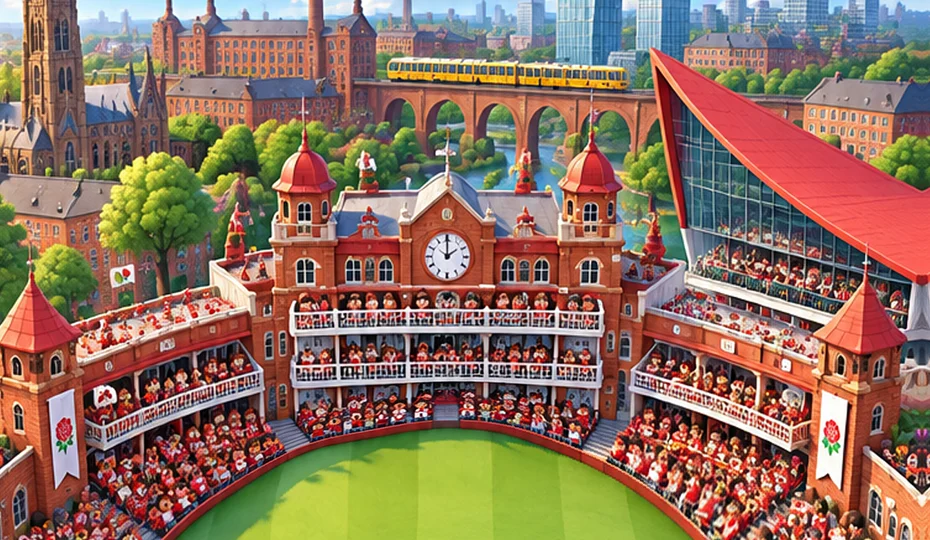
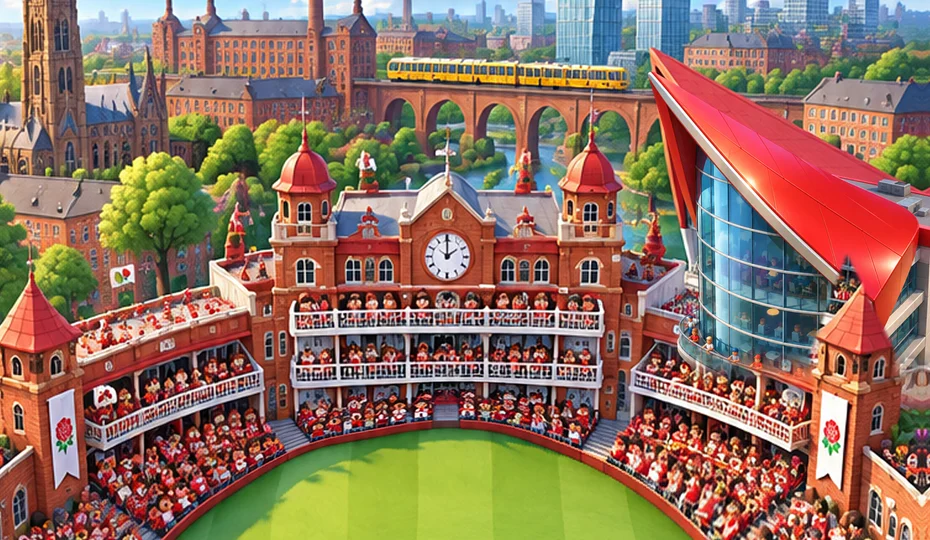
Old Trafford: clean cartoon Point on the wizard-style plate
Claude-Session: https://claude.ai/code/session_01EnXvJ6P6HcGRxjBSnYPdAU

Changed region(s): [[0.686, 0.1185, 1.0, 0.7111]]

diff --git a/art/grounds/oldtrafford/point2.py b/art/grounds/oldtrafford/point2.py
@@ -1,0 +1,17 @@
+# Joe (Nov 2, cam3 plate): the painted Point roof was a smeared slab. Lay the standalone cartoon Point (Figma 419:191) over it,
+# its lower floors fading into the plate's own glass stand + fans, and the red-roofed corner tower put back on top.
+import numpy as np, cv2, sys
+from PIL import Image
+im=np.array(Image.open('raw/point_419-191.png').convert('RGB')).astype(float)
+a=np.clip((np.sqrt(((im-[0,255,0])**2).sum(2))-45)/60,0,1); ex=np.clip(im[...,1]-np.maximum(im[...,0],im[...,2]),0,None); a=a*np.clip(1-ex/90,0,1)
+f=im.copy(); f[...,1]=np.minimum(f[...,1],np.maximum(f[...,0],f[...,2]))
+sp=Image.fromarray(np.dstack([f,cv2.erode((a*255).astype(np.uint8),np.ones((3,3),np.uint8))]).clip(0,255).astype(np.uint8)); sp=sp.crop(sp.getbbox())
+x0,yb,w,keep=[int(v) for v in sys.argv[1:5]]   # left, bottom line, width, fraction*100 of sprite height kept (top part)
+k=w/sp.width; sp=sp.resize((w,round(sp.height*k)),Image.LANCZOS); sp=sp.crop((0,0,w,round(sp.height*keep/100)))
+A=np.array(sp).astype(float); F=40; A[-F:,:,3]*=np.linspace(1,0,F)[:,None]; sp=Image.fromarray(A.astype(np.uint8))
+base=Image.open('plate_cam3.png').convert('RGBA'); orig=np.array(base).astype(float)
+base.alpha_composite(sp,(x0,yb-sp.height)); out=np.array(base).astype(float)
+# corner tower back on top (its red cone + brick shaft), from the original plate
+tm=np.zeros(out.shape[:2],np.float32); cv2.fillPoly(tm,[np.array([[1065,440],[1020,560],[1020,780],[1125,780],[1125,560]])],1); tm=cv2.GaussianBlur(tm,(0,0),2)[...,None]
+out=out*(1-tm)+orig*tm
+Image.fromarray(out.astype(np.uint8)).convert('RGB').save('plate.png'); print(sp.size,(x0,yb-sp.height))

diff --git a/art/grounds/ART_PACKAGE.md b/art/grounds/ART_PACKAGE.md
@@ -72,3 +72,4 @@ Board 418:192 (green key): red enamel + chrome frame, roses, worker bee, charcoa
 Nov 2 v2 (Joe: 'the Point red box is terrible'): cartoon Point building generated alone (Figma 419:191, green key: red wedge roof to a sharp point, curved glass, balcony) and laid over the old block by art/grounds/oldtrafford/point.py (old block cleared by continuing the viaduct/houses from 200 px left). Plate was 1160 wide out of build_clean — padded to 1170. v1 kept as plate_v1.png.
 Nov 2 v3 (Joe: Camera 2 in the agreed spec style): full PROMPTS.md template with the Camera 2 MEDIUM-CLOSE line → Figma 421:191 (420:191 rejected: field painted edge to edge, giant near-end crowd). Ratio 1.82 → build_clean squash .91, right 60 px padded by reflection → snap_ring max 69 → measure max 1.4. v2 (Camera 4 + new Point) kept as plate_v2.png.
 Nov 2 v4 (Joe: 'what happened to the closer camera / same view as the wizard scene'): Wizard is Camera 3 MEDIUM in the spec. Full template with the Camera 3 line + a STADIUM SHAPE line (one continuous curved bowl hugging the oval, tiered rows in 3/4, red-brick corner towers, pavilion + Point rising at the far end, Manchester band beyond) → Figma 422:191 → build_clean → snap_ring → measure max 9.0 p90 3.0 (painted field nearly full width, so side stands are thin, as on Wizard).
+Nov 2: cam3 plate's painted Point was a smeared slab — art/grounds/oldtrafford/point2.py lays the standalone cartoon Point (419:191) over it, lower floors fading into the painted glass stand, corner tower kept on top.
